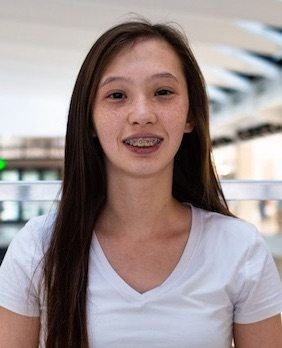
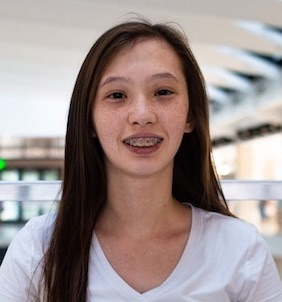
Changing image centering

diff --git a/team.html b/team.html
@@ -26,7 +26,7 @@ title: The Team
       <div class="col-md-4">
         <div class="card mb-4 box-shadow">
           <img
-            class="card-img-top"
+            class="assets/ card-img-top"
             src="assets/img/Strong.jpg"
             alt="Headshot"
           />

diff --git a/assets/css/uav.css b/assets/css/uav.css
@@ -340,3 +340,7 @@ h2 {
   height: 15vw;
   object-fit: cover;
 }
+
+.vertical-padding {
+  vertical-align: bottom;
+}
